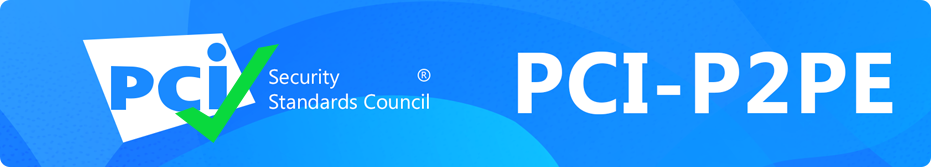
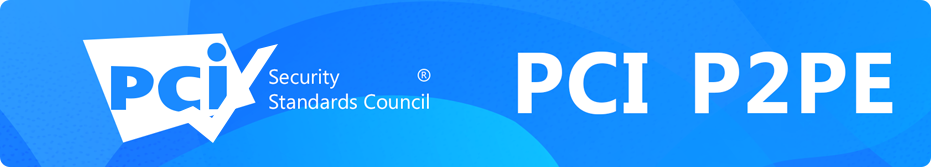
修改细节

Changed region(s): [[0.1869, 0.2695, 0.3115, 0.8383], [0.6853, 0.509, 0.7476, 0.5689]]

diff --git a/layouts/pci.vue b/layouts/pci.vue
@@ -1,6 +1,6 @@
 <template>
   <div>
-    <NavBar fixed alwaysShow />
+    <NavBar fixed alwaysShow />    
     <div class="container pci-main containerXL">
       <el-row>
         <el-col :span="4" class="hidden lg:block">
@@ -33,7 +33,7 @@
             <h3>Related Articles</h3>
             <div class="flex flex-col lg:flex-row">
               <div class="flex-1 flex flex-col">
-                <nuxt-link to="/pci">
+                <nuxt-link to="/pci/pci">
                   <img src="~assets/PCI/1.png" class="mr-3 mb-3" />
                 </nuxt-link>
                 <div class="px-2">
@@ -43,21 +43,21 @@
               </div>
 
               <div class="flex-1">
-                <nuxt-link to="/pci-dss">
+                <nuxt-link to="/pci/pci-dss">
                   <img src="~assets/PCI/2.png" class="mr-3 mb-3" />
                 </nuxt-link>
                 <div class="px-2">
-                  <h4 class="mb-2">PCI-DSS</h4>
+                  <h4 class="mb-2">PCI DSS</h4>
                   <p>PCI DSS contains 12 requirements, which are divided into 6 categories...</p>
                 </div>
               </div>
 
               <div class="flex-1">
-                <nuxt-link to="/pci-p2pe">
+                <nuxt-link to="/pci/pci-p2pe">
                   <img src="~assets/PCI/3.png" class="mb-3" />
                 </nuxt-link>
                 <div class="px-2">
-                  <h4 class="mb-2">P2PE</h4>
+                  <h4 class="mb-2">PCI P2PE</h4>
                   <p>PCI P2PE standard is to facilitate the development...</p>
                 </div>
               </div>
@@ -78,22 +78,22 @@ export default {
         {
           id: 0,
           title: "PCI",
-          path: "/pci",
+          path: "/pci/pci",
         },
         {
           id: 1,
           title: "PCI DSS",
-          path: "/pci-dss",
+          path: "/pci/pci-dss",
         },
         {
           id: 2,
           title: "PCI PIN",
-          path: "/pci-pin",
+          path: "/pci/pci-pin",
         },
         {
           id: 3,
           title: "PCI P2PE",
-          path: "/pci-p2pe",
+          path: "/pci/pci-p2pe",
         },
       ],
     };
@@ -101,19 +101,19 @@ export default {
   computed: {
     activeIndex() {
       const paths = {
-        "/pci": 0,
-        "/pci-dss": 1,
-        "/pci-pin": 2,
-        "/pci-p2pe": 3,
+        "/pci/pci": 0,
+        "/pci/pci-dss": 1,
+        "/pci/pci-pin": 2,
+        "/pci/pci-p2pe": 3,
       };
       return paths[this.$route.path];
     },
     topPosition() {
       const positions = {
-        "/pci": 0,
-        "/pci-dss": 45,
-        "/pci-pin": 95,
-        "/pci-p2pe": 144,
+        "/pci/pci": 0,
+        "/pci/pci-dss": 45,
+        "/pci/pci-pin": 95,
+        "/pci/pci-p2pe": 144,
       };
       return positions[this.$route.path] + "px";
     },

diff --git a/components/Footer.vue b/components/Footer.vue
@@ -50,14 +50,14 @@
               <div class="divider"></div>
               <h4>TOMS IS NOW PCI DSS CERTIFIED</h4>
             </div>
-            <nuxt-link to="/pci">
+            <nuxt-link to="/pci/pci">
               <img src="~assets/PCI/4.png" alt class="mb-2 mr-10" />
               
             </nuxt-link>
-            <nuxt-link to="/pci-dss">
+            <nuxt-link to="/pci/pci-dss">
               <img src="~assets/PCI/10.png" alt class="mb-2" />
             </nuxt-link>
-            <p>TOMS passed the relevant certification of PCI-DSS.</p>
+            <p>TOMS passed the relevant certification of PCI DSS.</p>
           </div>
         </div>  
       </div>
@@ -111,7 +111,7 @@
             </li>
           </ul>
           <span class="links">
-            Copyright © 2021 Newland Payment Technology(newlandnpt.com). All
+            Copyright © 2021-2022 Newland Payment Technology(newlandnpt.com). All
             rights reserved.
           </span>
         </div>
@@ -139,7 +139,7 @@ export default {
   background: #201f1d;
   padding: 80px 0 30px;
   p {
-    line-height: 2;
+    line-height: 1.5;
   }
   hr {
     border-top: 1px solid #5a5959;

diff --git a/pages/_lang/pci/pci-p2pe.vue b/pages/_lang/pci/pci-p2pe.vue
@@ -1,8 +1,8 @@
 <template>
   <section>
-    <h2 class="title">PCI-P2PE<div class="badge">FlyKey passed P2PE</div></h2>
+    <h2 class="title">PCI P2PE<div class="badge">FlyKey passed PCI P2PE</div></h2>
     <div class="chapter">
-      <h3>Introduction of PC-P2PE</h3>
+      <h3>Introduction of PCI P2PE</h3>
       <p>PCI P2PE standard is to facilitate the development, approval, and deployment of PCI-approved P2PE solutions that will increase the protection of account data by encrypting that data from the point of interaction (POI) within the encryption environment where account data is captured through to the point of decrypting that data inside a decryption environment, effectively removing clear-text account data between these two points.</p>
     </div>
     <div class="chapter">

diff --git a/pages/_lang/pci/pci-pin.vue b/pages/_lang/pci/pci-pin.vue
@@ -5,7 +5,7 @@
       <div class="badge">FlyKey passed PCI PIN</div>
     </h2>
     <div class="chapter">
-      <h3>1.Introduction of PCI</h3>
+      <h3>1.Introduction of PCI PIN</h3>
       <p
         class="mb-8"
       >PCI PIN standard contains a complete set of requirements for the secure management, processing, and transmission of personal identification number (PIN) data during online and offline payment card transaction processing at ATMs and point-of-sale (POS) terminals.</p>

diff --git a/pages/_lang/pci/pci.vue b/pages/_lang/pci/pci.vue
@@ -1,7 +1,7 @@
 <template>
-  <div>
+  <div>    
     <section>
-      <h2 class="title">PCI <div class="badge">FlyKey passed PCI</div></h2>
+      <h2 class="title">PCI</h2>
       <div class="chapter">
         <h3>1.Introduction of PCI</h3>
         <p>The PCI Security Standards Council (PCI SSC) is a global forum that brings together payments industry stakeholders to develop and drive adoption of data security standards and resources for safe payments worldwide.</p>

diff --git a/plugins/i18n.js b/plugins/i18n.js
@@ -18,7 +18,7 @@ export default ({ app, store }) => {
   app.i18n.path = (link) => {
     if (app.i18n.locale === app.i18n.fallbackLocale) {
       return `/${link}`;
-    }
+    }    
     return `/${app.i18n.locale}/${link}`;
   };
 };
